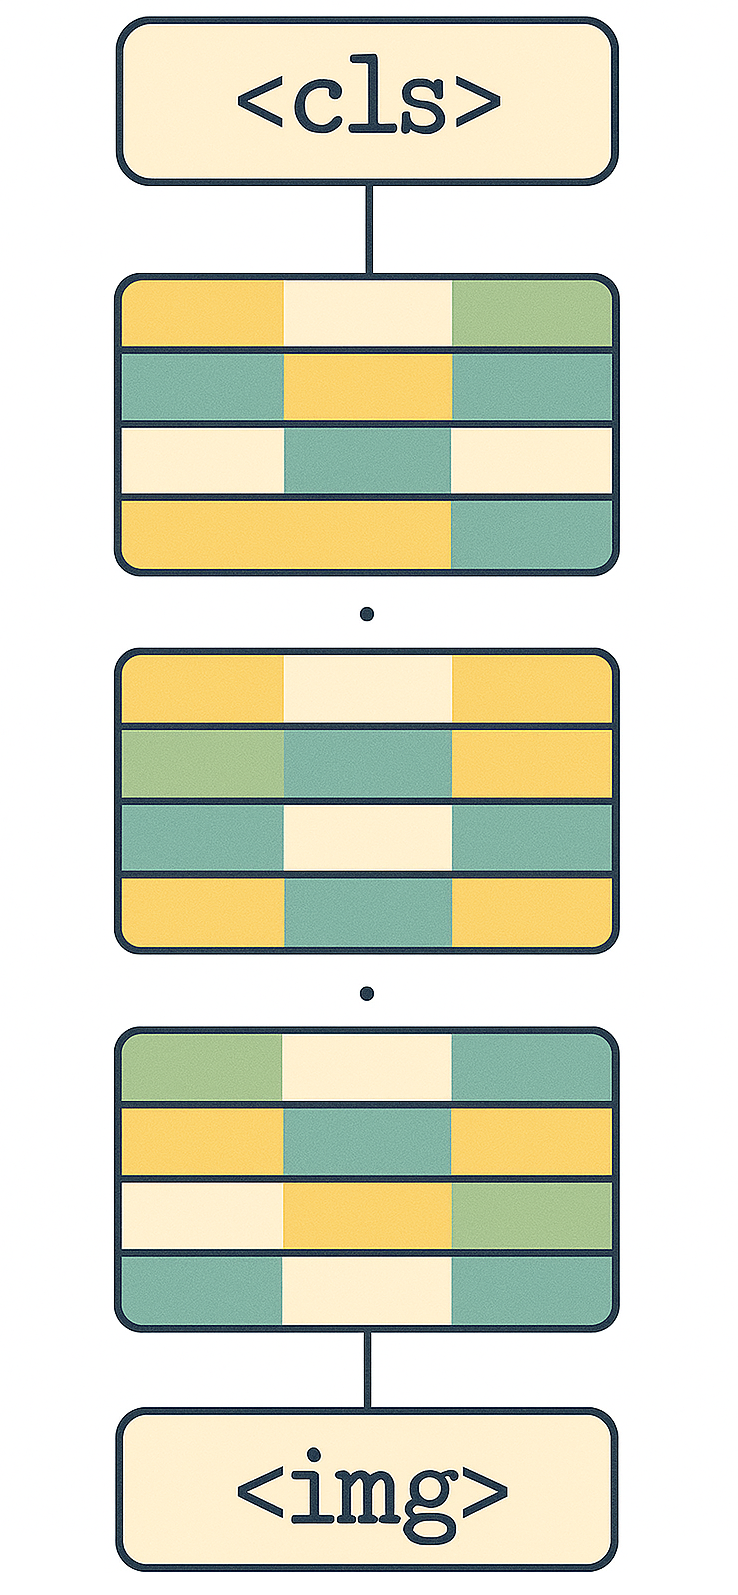
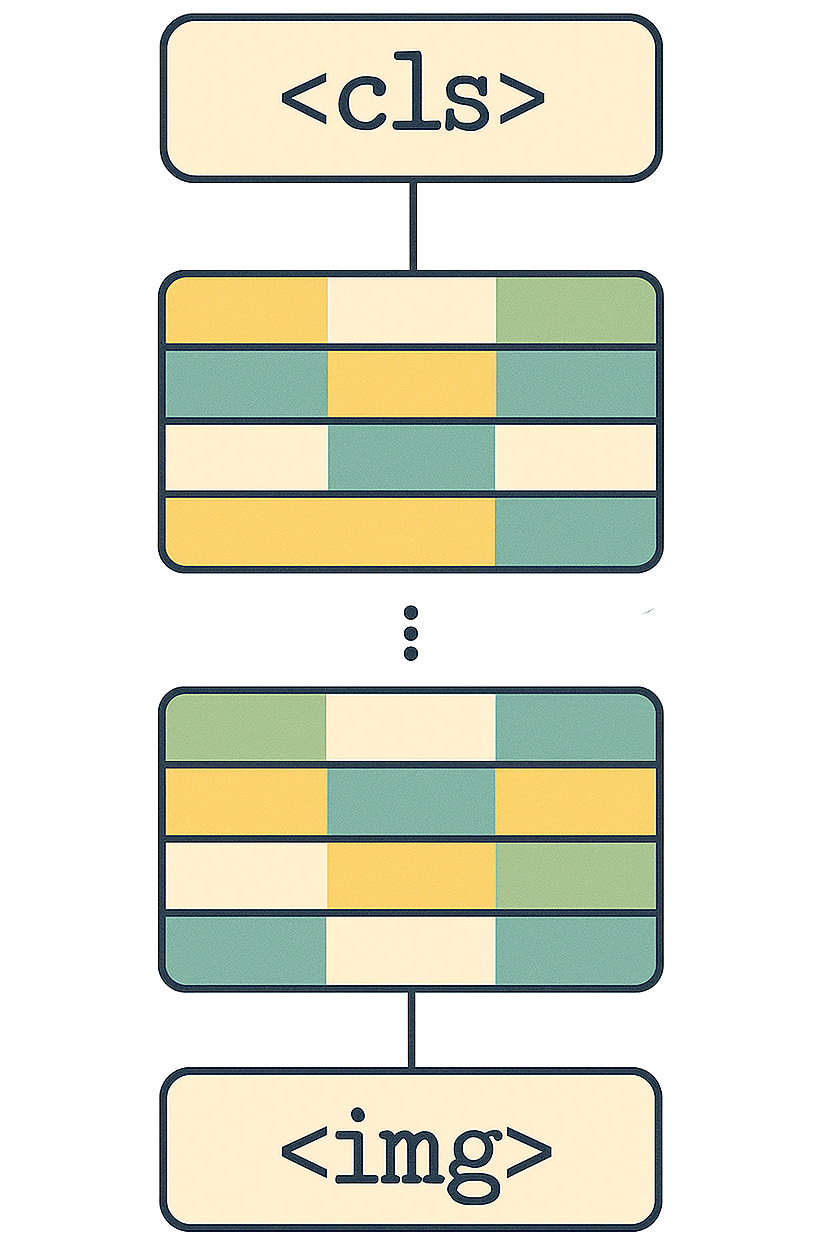
update post vit attn bias

diff --git a/docs/posts/004_vit_attention_mask/englert_ai_4_vit_attention_mask.html b/docs/posts/004_vit_attention_mask/englert_ai_4_vit_attention_mask.html
@@ -230,7 +230,7 @@ gtag('config', '<Insert your ID here>', { 'anonymize_ip': true});
 
 <section id="introduction" class="level1">
 <h1>Introduction</h1>
-<p><img style="float: left; padding-right: 10px; padding-top: 10px; padding-bottom: 10px; padding-left: 10px;" width="40%" src="vit_illustration.png"></p>
+<p><img style="float: left; padding-right: 10px; padding-top: 10px; padding-bottom: 10px; padding-left: 10px;" width="20%" src="vit_illustration.png"></p>
 <p>There’s a persistent belief in the machine learning community that Vision Transformers (ViTs) require massive datasets to perform well. Statements like “ViTs need millions of images” or “they don’t work without ImageNet-21k” are commonly accepted truths. But rarely do we pause to ask <strong>why are ViTs so data-hungry?</strong></p>
 <p>In this post, we argue that the answer lies in the very core of what makes ViTs different: the attention mechanism. We’ll explore why attention creates problems early in training, how it leads to noisy gradients and unstable representations — and describe one way to address the instability. This method does not fix all the challenges; notably, it does not solve the issue of learning attention patterns that generalize well from limited data. But it does reduce training instability, especially when batch sizes are small.</p>
 </section>

diff --git a/docs/index.html b/docs/index.html
@@ -213,7 +213,7 @@ window.Quarto = {
 
 <div class="quarto-listing quarto-listing-container-default" id="listing-listing">
 <div class="list quarto-listing-default">
-<div class="quarto-post image-right" data-index="0" data-categories="ZGVlcA==" data-listing-date-sort="1752012000000" data-listing-file-modified-sort="1752404408833" data-listing-date-modified-sort="NaN" data-listing-reading-time-sort="7" data-listing-word-count-sort="1238">
+<div class="quarto-post image-right" data-index="0" data-categories="ZGVlcA==" data-listing-date-sort="1752012000000" data-listing-file-modified-sort="1752404443435" data-listing-date-modified-sort="NaN" data-listing-reading-time-sort="7" data-listing-word-count-sort="1238">
 <div class="thumbnail">
 <p><a href="./posts/004_vit_attention_mask/englert_ai_4_vit_attention_mask.html" class="no-external"></a></p><a href="./posts/004_vit_attention_mask/englert_ai_4_vit_attention_mask.html" class="no-external">
 <p class="card-img-top"><img src="posts/004_vit_attention_mask/vit_illustration.png"  class="thumbnail-image card-img"/></p>

diff --git a/docs/archive.html b/docs/archive.html
@@ -247,7 +247,7 @@ window.Quarto = {
 </tr>
 </thead>
 <tbody class="list">
-<tr data-index="0" data-categories="ZGVlcA==" data-listing-date-sort="1752012000000" data-listing-file-modified-sort="1752404408833" data-listing-date-modified-sort="NaN" data-listing-reading-time-sort="7" data-listing-word-count-sort="1238" data-listing-title-sort="Why Do Vision Transformers Need So Much Data and How to (Partially) Fix It?" data-listing-filename-sort="englert_ai_4_vit_attention_mask.ipynb">
+<tr data-index="0" data-categories="ZGVlcA==" data-listing-date-sort="1752012000000" data-listing-file-modified-sort="1752404443435" data-listing-date-modified-sort="NaN" data-listing-reading-time-sort="7" data-listing-word-count-sort="1238" data-listing-title-sort="Why Do Vision Transformers Need So Much Data and How to (Partially) Fix It?" data-listing-filename-sort="englert_ai_4_vit_attention_mask.ipynb">
 <td>
 <span class="listing-date">Jul 9, 2025</span>
 </td>
